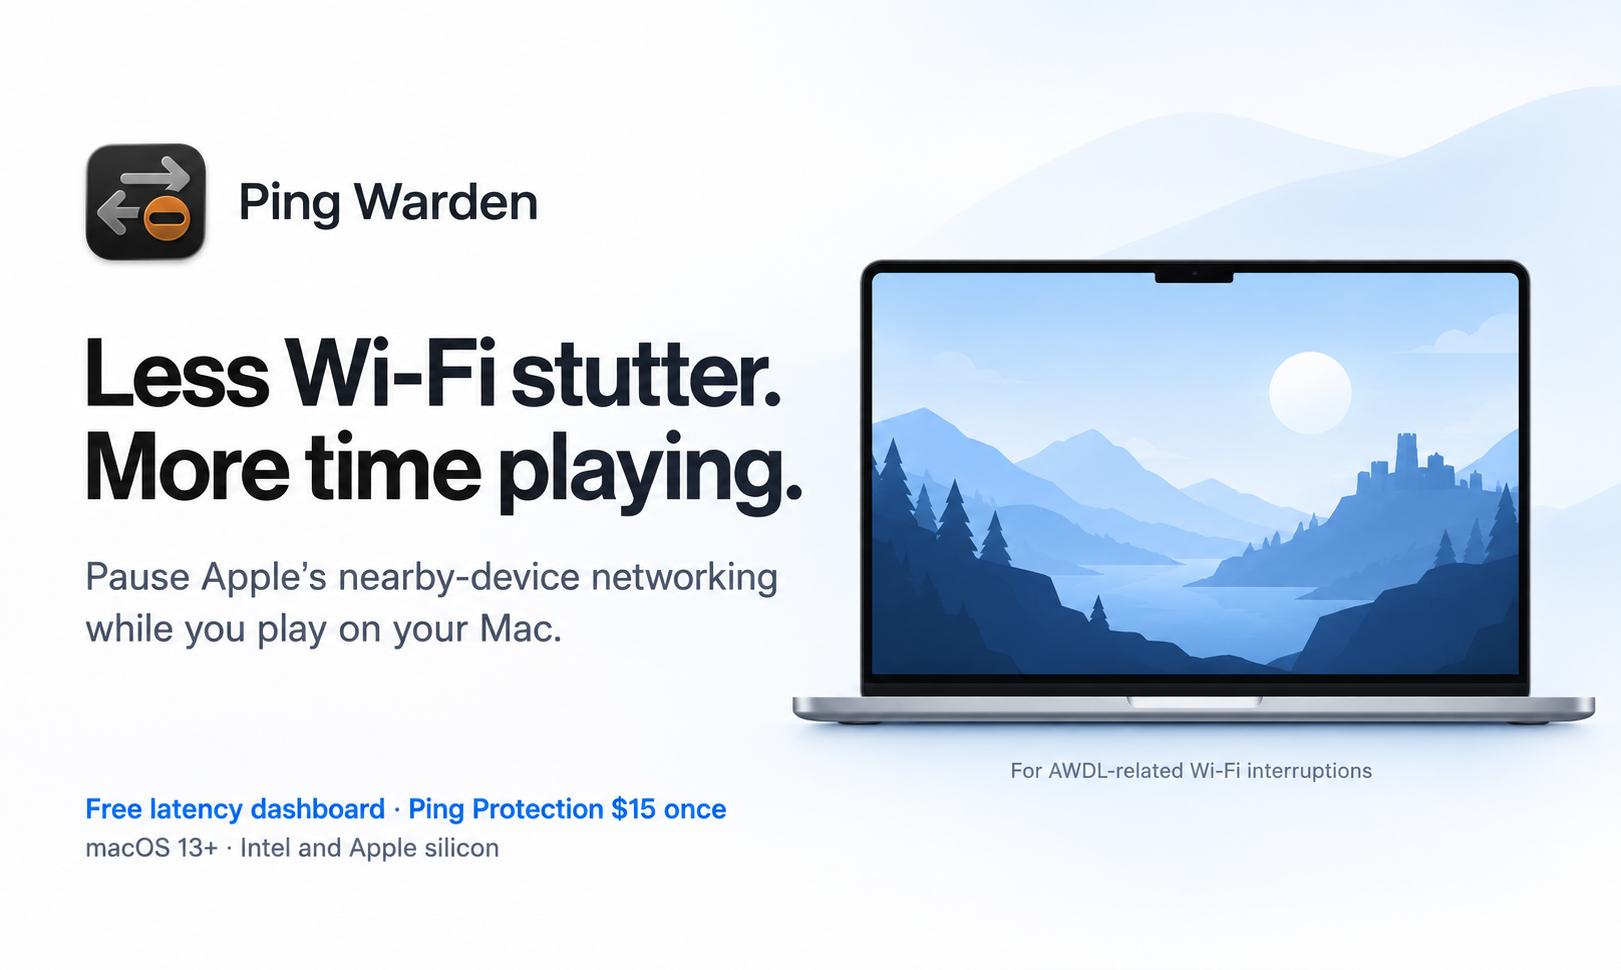
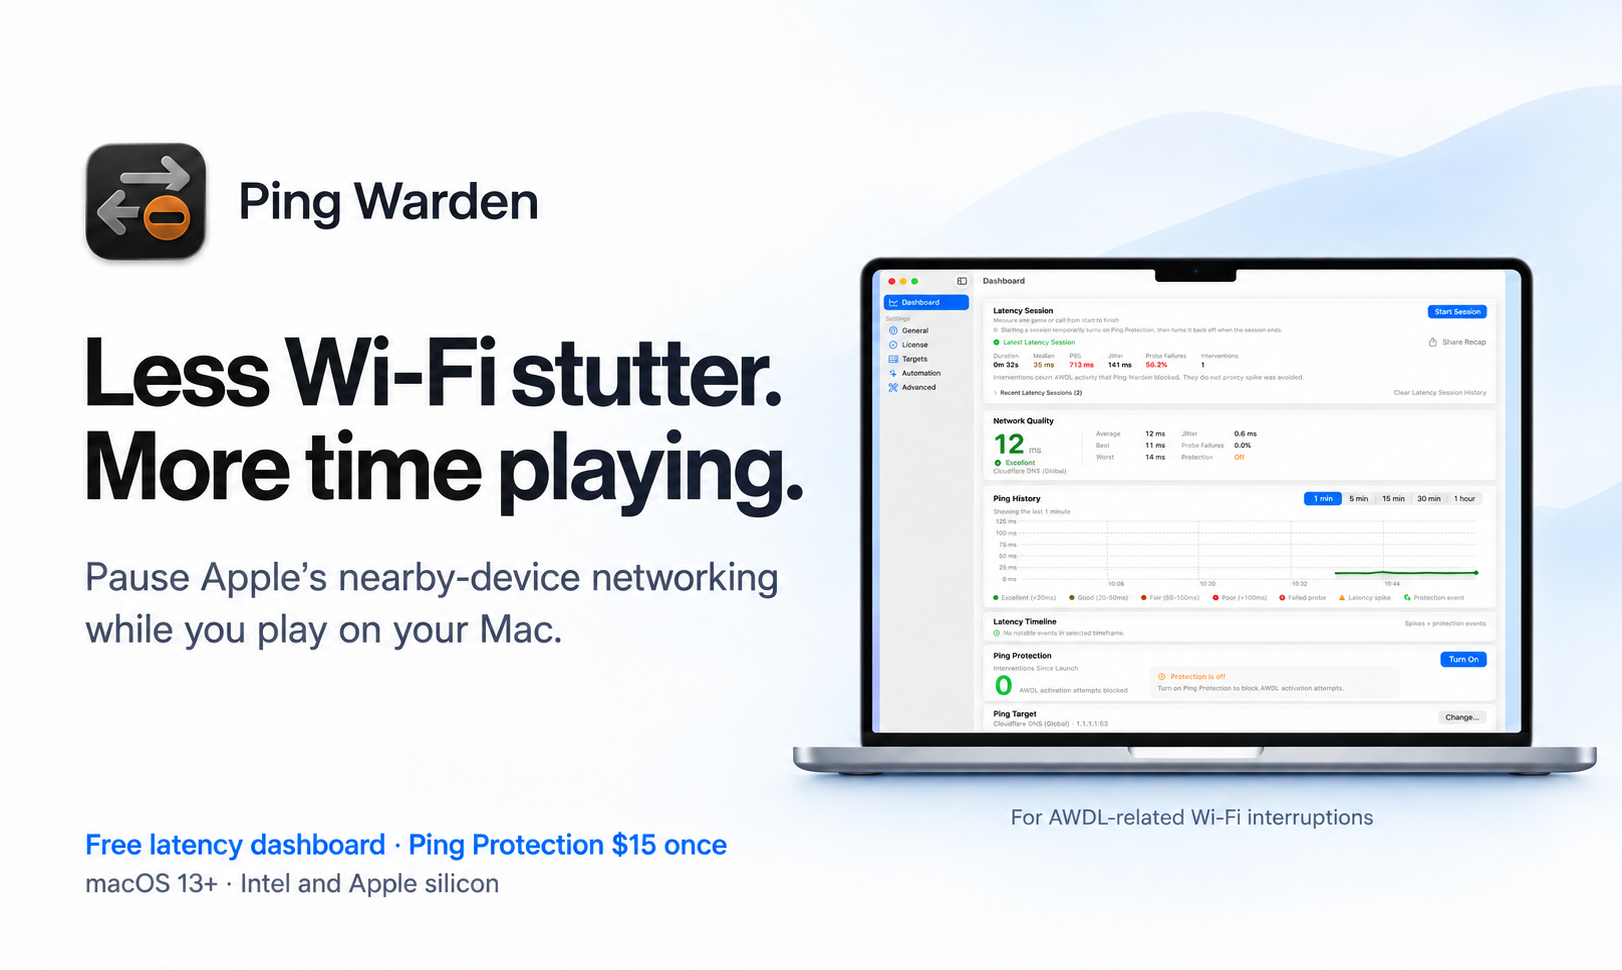
Show dashboard in Product Hunt laptop graphic

diff --git a/docs/product-hunt-2026-09-24/image-prompts.md b/docs/product-hunt-2026-09-24/image-prompts.md
@@ -2,11 +2,19 @@
 
 Prepared September 24, 2026 for Ping Warden by Oliver Ames.
 
-Both graphics used the built-in image-generation tool. The input for each was the existing `Site/public/app-icon.png`, viewed before use. The outputs were inspected for spelling, readable layout, correct pricing, and the absence of invented app screens or benchmarks. The generator returned 1621 × 970 PNG images, approximately the requested 1270 × 760 proportions. Originals were copied into this directory without further image editing.
+Both graphics initially used the built-in image-generation tool with the existing `Site/public/app-icon.png`, viewed before use. Those initial outputs were 1621 × 970 PNG images. The cloud-gaming card was subsequently edited with the same tool to put the supplied landing-page dashboard screenshot inside its laptop display, as Oliver requested. The final cloud-gaming card is 1622 × 970 and 1,327,375 bytes. The sharing card remains unchanged.
+
+The final card was visually compared with the supplied screenshot for the sidebar, dashboard cards, chart, and prominent values. Marketing copy, pricing, and laptop framing were also inspected. This is a generated composite, not a pixel-identical screenshot. The untouched dashboard screenshot still leads the gallery. Both final cards are saved in this directory, and both are below 3 MB.
 
 ## 01-cloud-gaming.png
 
 Use case: ads-marketing. Create one finished Product Hunt gallery image for Ping Warden, a native Mac utility. Landscape 1270x760 pixels if possible. Make it restrained and polished with white and very pale blue background, charcoal SF-style typography, blue accent and small orange detail echoing the supplied app icon. Input image is the EXISTING PRODUCT ICON, preserve its recognizable gray arrows and orange minus, do not redesign. Small icon and 'Ping Warden' at top left. Large impeccably readable headline on left: 'Less Wi-Fi stutter.\nMore time playing.' Supporting text exactly: 'Pause Apple’s nearby-device networking\nwhile you play on your Mac.' Bottom left exact line: 'Free latency dashboard · Ping Protection $15 once' and below 'macOS 13+ · Intel and Apple silicon'. On the right use a tasteful stylized illustration of a Mac laptop with a minimal blue abstract gaming landscape on its screen, no real game artwork, no fake app UI, no charts, no performance figures. A small tasteful caption below the laptop exactly: 'For AWDL-related Wi-Fi interruptions'. This is a clear product explainer, never imply a guaranteed speed improvement or benchmark. Ample white space, crisp typesetting, nothing clipped, no Product Hunt logo, no badges, no awards, no extra invented text.
+
+### Requested laptop-screen correction
+
+Method: built-in image generation, with two local image references inspected before editing. Input 1 was the original `01-cloud-gaming.png` card. Input 2 was the unchanged `Site/public/dashboard-v4.png` landing-page screenshot. The returned PNG replaced `01-cloud-gaming.png` after visual inspection.
+
+Use case: compositing. Edit target: input image 1, the full Ping Warden Product Hunt promotional card. Supporting insert: input image 2, the actual Ping Warden dashboard screenshot used on the landing page. Replace ONLY the landscape inside the laptop display with the actual dashboard screenshot from input 2. Treat that screenshot as an inserted image, not inspiration for a redesigned interface. Preserve its sidebar, complete app window, card layout, chart, labels, and values. Remove only exterior empty padding around the app window, fit the full window proportionally inside the laptop screen without stretching it, and use a narrow pale-blue desktop background at the sides if needed. The app screenshot must be clearly visible and recognizable. Preserve the laptop bezel, notch, body, position, shadows, every word of the existing marketing copy, app icon, typography, white/pale-blue background, margins, and the full 1621-by-970 landscape composition. Do not add, remove, or rewrite any copy or invent app controls, numbers, or chart data. Do not add watermarks or a Canvas badge. This is a precise screen-content replacement; leave everything outside the laptop display unchanged.
 
 ## 03-sharing-tradeoff.png
 

diff --git a/docs/2026-09-24-claude-release-handoff.md b/docs/2026-09-24-claude-release-handoff.md
@@ -36,6 +36,7 @@ Launch preparation commits are 5839f30 and 5905784. Read current Git status, wor
 - The same reviewer approved the platform-import fix. Thirteen focused storage and host-validation tests passed on macOS with zero failures or skips.
 - [Build Verification for 8d13d34](https://github.com/oliverames/ping-warden/actions/runs/36041456305) passed, including the complete app build, bundle validation, macOS tests, Linux tests, and shell checks.
 - [CodeQL for 8d13d34](https://github.com/oliverames/ping-warden/actions/runs/36041456309) was still running when this document was prepared. Recheck its final status before publication.
+- At the subsequent image-correction wrap-up on September 24, [Build Verification for ba9e285](https://github.com/oliverames/ping-warden/actions/runs/36042729444) had passed. CodeQL remained in progress for both 8d13d34 and [ba9e285](https://github.com/oliverames/ping-warden/actions/runs/36042729454).
 - [Native preview record](2026-09-24-targets-native-layout.md) contains light/dark, minimum-size, and add-form captures. A duplicate port label caught in the preview was fixed and rendered again.
 
 Previews used isolated identifiers, in-memory preferences, a separate file root, and inert external services. They are not installed-app or live-interaction evidence. Computer Use failed initialization with error -10005. The other issue-review task also encountered stale accessibility references during its interaction attempt. Do not infer a product bug from those tool failures or claim keyboard acceptance was completed.
@@ -59,6 +60,6 @@ Verify the actual published DMG, embedded versions, signatures and notarization,
 
 ## Product Hunt after release readiness
 
-Use [the launch record](2026-09-24-product-hunt-launch.md) and [listing JSON](product-hunt-2026-09-24/listing.json). Lead with the real `Site/public/dashboard-v4.png` screenshot. The generated cards supplement real app screenshots. Never use the isolated review captures as released product imagery.
+Use [the launch record](2026-09-24-product-hunt-launch.md) and [listing JSON](product-hunt-2026-09-24/listing.json). Lead with the real `Site/public/dashboard-v4.png` screenshot. Oliver's final image correction is complete: `01-cloud-gaming.png` now shows the supplied dashboard inside the laptop display. This generated composite supplements the unchanged original screenshot. The final graphic is 1622 × 970 and below 3 MB. Never use the isolated review captures as released product imagery.
 
 [Issue #93](https://github.com/oliverames/ping-warden/issues/93) tracks the remaining submission. No draft, schedule, or published launch exists. Authenticated maker access, duplicate/draft checking, preview verification, and a launch date remain. September 25 was suggested earlier but never selected. Refresh the copy's verified release metadata after any new app release. Submit only after publication resumes and record the actual resulting URL and status. No outreach or vote solicitation was authorized.

diff --git a/docs/2026-09-24-product-hunt-launch.md b/docs/2026-09-24-product-hunt-launch.md
@@ -79,7 +79,7 @@ Editorial note for Oliver: the closing feedback question and the launch framing 
 ## Gallery and thumbnail
 
 1. [Real dashboard screenshot](../Site/public/dashboard-v4.png). The unmodified screenshot used on the live landing page, verified September 24. Lead with the actual app. Suggested caption: "The Ping Warden dashboard, as shown on the landing page. Intervention counts record attempts to pause AWDL."
-2. [Cloud gaming introduction](product-hunt-2026-09-24/01-cloud-gaming.png). Generated illustration and verified product copy. No simulated app interface or benchmark.
+2. [Cloud gaming introduction](product-hunt-2026-09-24/01-cloud-gaming.png). Generated laptop composite using the supplied landing-page dashboard screenshot and verified product copy. The app appears inside the laptop display. The untouched screenshot remains the first gallery image.
 3. [Sharing tradeoff](product-hunt-2026-09-24/03-sharing-tradeoff.png). Generated explanatory graphic with accurate protection and pause behavior.
 4. [Automation screenshot](images/ping-warden-4-automation.png). Existing, unmodified product screenshot showing the Game Mode option and optional fullscreen-detection permission.
 
@@ -89,7 +89,7 @@ Oliver selected the actual landing-page dashboard screenshot and asked to omit T
 
 The Targets design observation is part of the existing #90 native-design review. Oliver clarified that the app's tab must remain, and explicitly requested a consistent native layout. This task owns that follow-up. Its isolated verification and release status must be recorded separately from the Product Hunt submission.
 
-The [machine-readable fields](product-hunt-2026-09-24/listing.json) mirror this copy. The [image prompt record](product-hunt-2026-09-24/image-prompts.md) records the built-in image-generation prompts. Generated artwork supplements actual screenshots and is not presented as product UI.
+The [machine-readable fields](product-hunt-2026-09-24/listing.json) mirror this copy. The [image prompt record](product-hunt-2026-09-24/image-prompts.md) records the built-in image-generation prompts and subsequent laptop-screen correction. The edited card is a generated composite of the supplied dashboard screenshot, not a pixel-identical capture. It supplements the original app screenshots.
 
 ## Launch-day priorities
 

diff --git a/WORKLOG.md b/WORKLOG.md
@@ -32,6 +32,8 @@
 
 **Open questions**: Claude must review remaining live interaction and signed-host acceptance in #90 and #78 before release readiness is declared. #93 tracks Product Hunt's account access, duplicate check, preview, date, and submission. Existing sales are supplied by Oliver; no customer count or product-success retest was added.
 
+**Follow-up resolved**: Replaced the cloud-gaming graphic's landscape with a generated composite using the actual landing-page dashboard screenshot. Compared the result with the supplied dashboard and checked the marketing copy and laptop framing. The saved card is 1622 × 970 and 1,327,375 bytes. Updated the prompt record, launch description, and Claude handoff. The untouched screenshot still leads the gallery. No app source or release carrier changed in this follow-up. Build Verification for ba9e285 passed; CodeQL for 8d13d34 and ba9e285 remained in progress when rechecked. Publication remains held.
+
 ## 2026-09-24 - Restore Linux compilation of target validation
 
 The hosted Linux check for 5905784 failed because CustomPingTargetStore imported Darwin unconditionally. The import came from the earlier a344c0c target-validation change. Wrapped it with the same Darwin/Glibc platform selection already used by TCPProbe. Validation and persistence logic remain unchanged.
